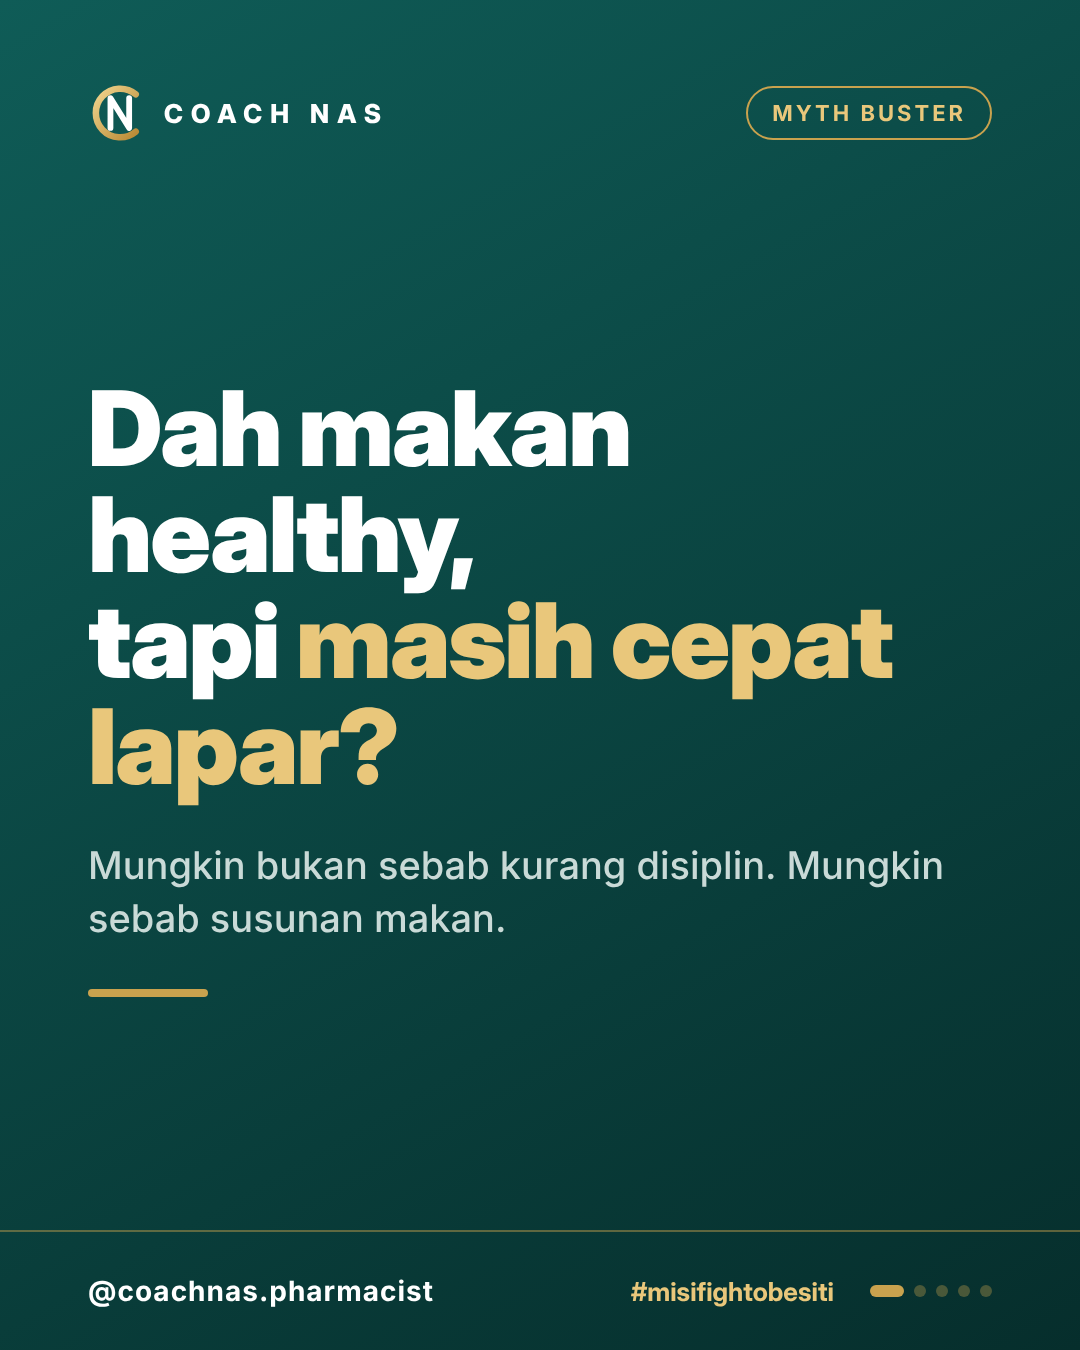
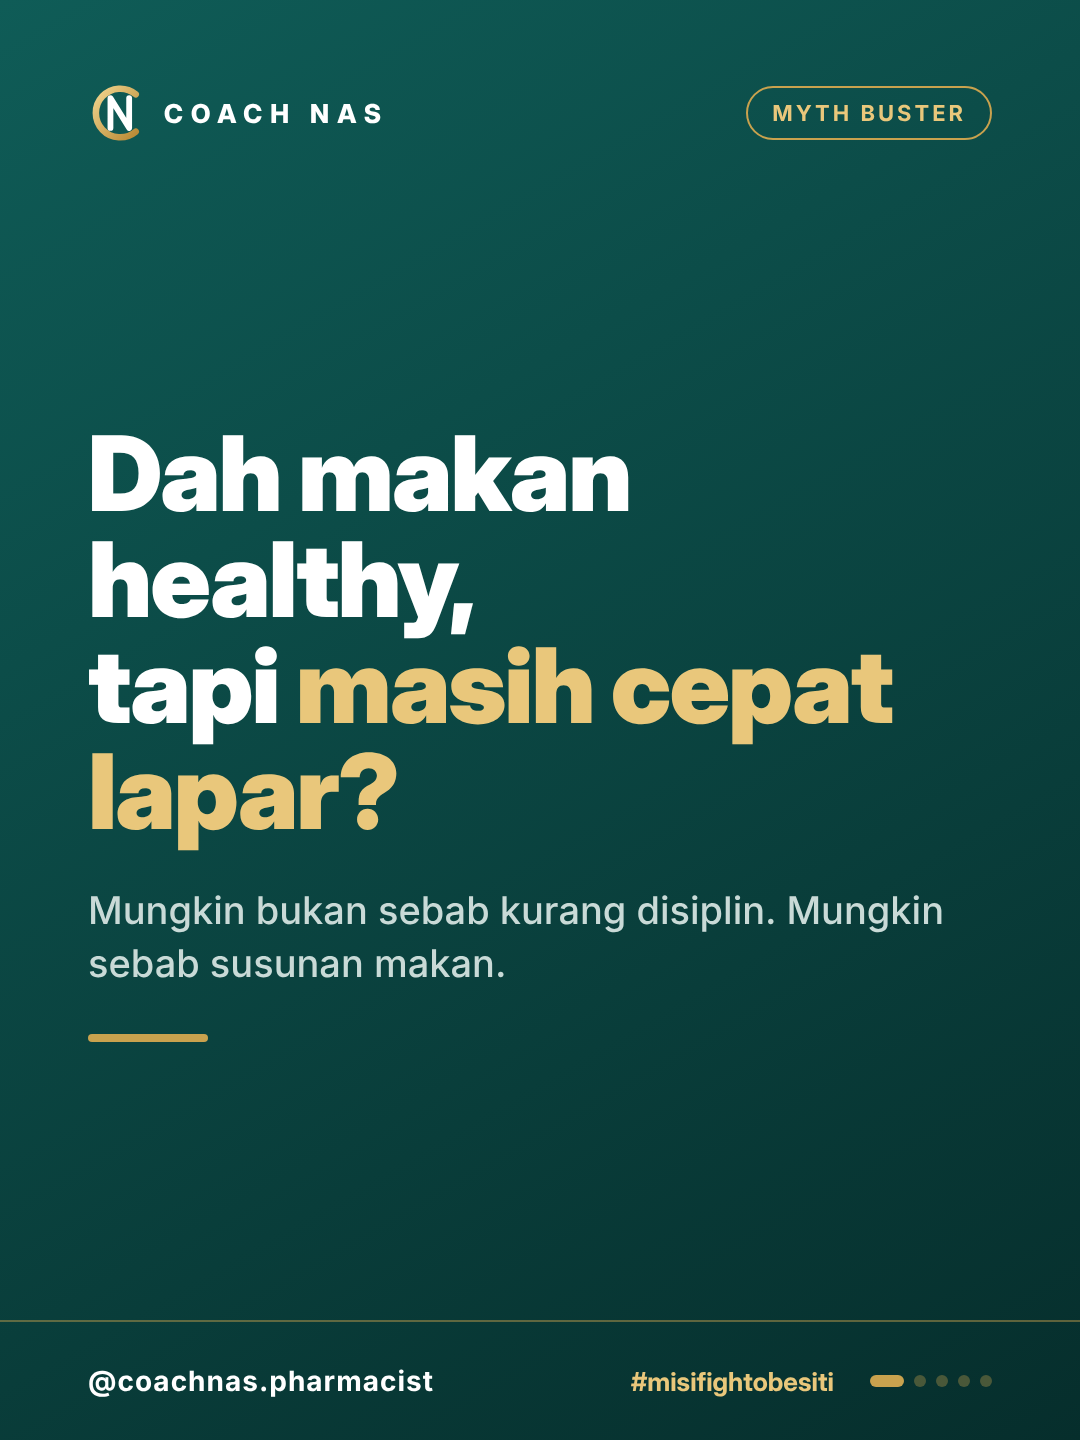
Post template: default to 3:4 (1080x1440) poster size
Matches the production lock in .claude/instagram/voice.md. 4:5 stays
available via "size": "4x5".

Claude-Session: https://claude.ai/code/session_01SQZU3hEfxBFkvCosFQgV8i

diff --git a/post-template/template.html b/post-template/template.html
@@ -6,7 +6,7 @@
     --teal:#0A4744; --teal-2:#0F5C57; --teal-deep:#062E2C;
     --gold:#C9A24E; --gold-lt:#E9C77B; --gold-dk:#B98A35;
     --cream:#FAF8F2; --ink:#1D2B2A; --muted:#5C6F6C;
-    --w:1080px; --h:1350px;
+    --w:1080px; --h:1440px;
   }
   *{box-sizing:border-box;margin:0;padding:0}
   body{background:#ddd;font-family:Inter,"Inter Display",Arial,sans-serif;display:flex;flex-wrap:wrap;gap:40px;padding:40px}
@@ -88,8 +88,8 @@ const BODY = {
 };
 
 function render(data){
-  const {slides, size='4x5', handle='@coachnas.pharmacist', tag='#misifightobesiti'} = data;
-  document.documentElement.style.setProperty('--h', size==='3x4' ? '1440px' : '1350px');
+  const {slides, size='3x4', handle='@coachnas.pharmacist', tag='#misifightobesiti'} = data;
+  document.documentElement.style.setProperty('--h', size==='4x5' ? '1350px' : '1440px');
   document.body.innerHTML = slides.map((s,i)=>`
   <section class="slide ${s.theme||'light'}" id="s${i+1}">
     <header class="hd" style="color:${(s.theme==='dark')?'#fff':'#0A4744'}">${MARK(i)}<span class="nm">COACH NAS</span>${s.label?`<span class="pill">${fmt(s.label)}</span>`:''}</header>

diff --git a/post-template/render.js b/post-template/render.js
@@ -1,5 +1,5 @@
 // Usage: node render.js <content.json> [out-dir]
-// Renders each slide in the JSON to a PNG (1080x1350 for 4x5, 1080x1440 for 3x4).
+// Renders each slide in the JSON to a PNG (1080x1440 for 3x4, the default; 1080x1350 for 4x5).
 const {chromium} = require('playwright');
 const fs = require('fs'), path = require('path');
 (async () => {

diff --git a/post-template/README.md b/post-template/README.md
@@ -1,7 +1,7 @@
 # Coach Nas post template
 
-Instagram post template using the CN monogram. Default size is 4:5 (1080×1350).
-Set `"size": "3x4"` for 1080×1440, the size `.claude/instagram/voice.md` lists as the Notion production lock.
+Instagram poster template using the CN monogram. Default size is 3:4 (1080×1440), the Notion production lock in `.claude/instagram/voice.md`.
+Set `"size": "4x5"` only if a post needs 1080×1350.
 
 ## Make a post
 
